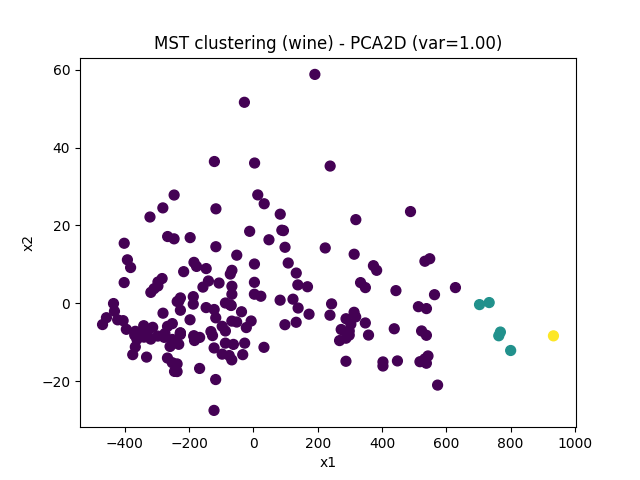
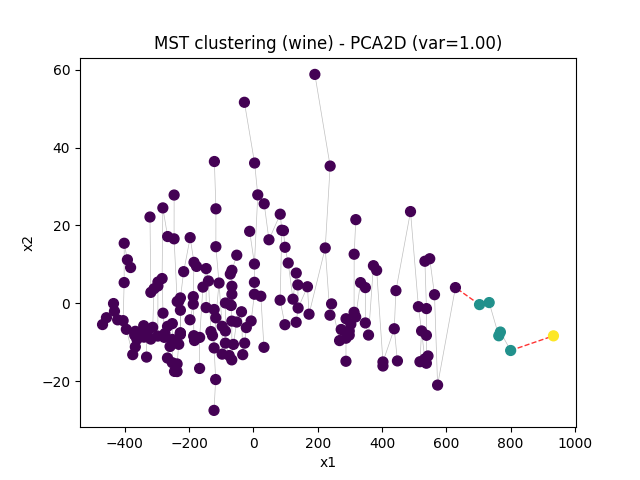
feat: add cost function calculation and details to the plots

diff --git a/mst_clustering.py b/mst_clustering.py
@@ -65,24 +65,42 @@ def mst_cut_clustering(mst_edges: List[Edge], n: int, k: int) -> np.ndarray:
 # -----------------------------
 # Plotting
 # -----------------------------
-def plot_2d_points(X2: np.ndarray, labels: np.ndarray, title: str) -> None:
+def plot_2d_points(X2: np.ndarray, labels: np.ndarray, title: str, mst_edges: List[Edge], cut_edges_set: set) -> None:
     plt.figure()
-    plt.scatter(X2[:, 0], X2[:, 1], c=labels, s=50)
+    
+    # Plot edges
+    for e in mst_edges:
+        p1 = X2[e.u]
+        p2 = X2[e.v]
+        
+        # Check if this edge is cut
+        key = (e.u, e.v) if e.u < e.v else (e.v, e.u)
+        if key in cut_edges_set:
+            plt.plot([p1[0], p2[0]], [p1[1], p2[1]], c='red', linestyle='--', linewidth=1, alpha=0.8)
+        else:
+            plt.plot([p1[0], p2[0]], [p1[1], p2[1]], c='gray', linestyle='-', linewidth=0.5, alpha=0.5)
+
+    plt.scatter(X2[:, 0], X2[:, 1], c=labels, s=50, zorder=3)
     plt.title(title)
     plt.xlabel("x1")
     plt.ylabel("x2")
     plt.savefig(f"figs/{title}.png")
 
 
-def plot_dataset(X: np.ndarray, labels: np.ndarray, dataset_name: str) -> None:
+def plot_dataset(X: np.ndarray, labels: np.ndarray, dataset_name: str, mst_edges: List[Edge], cut_edges: List[Edge]) -> None:
+    # Convert cut_edges to a set of tuples for faster lookup
+    cut_edges_set = set()
+    for e in cut_edges:
+        cut_edges_set.add((e.u, e.v) if e.u < e.v else (e.v, e.u))
+
     if X.shape[1] == 2:
-        plot_2d_points(X, labels, f"MST clustering ({dataset_name})")
+        plot_2d_points(X, labels, f"MST clustering ({dataset_name})", mst_edges, cut_edges_set)
         
     else:
         # PCA to 2D for visualization
         pca = PCA(n_components=2, random_state=42)
         X2 = pca.fit_transform(X)
-        plot_2d_points(X2, labels, f"MST clustering ({dataset_name}) - PCA2D (var={pca.explained_variance_ratio_.sum():.2f})")
+        plot_2d_points(X2, labels, f"MST clustering ({dataset_name}) - PCA2D (var={pca.explained_variance_ratio_.sum():.2f})", mst_edges, cut_edges_set)
 
 
 # -----------------------------
@@ -118,9 +136,59 @@ def main():
     print(f"Cutting {len(cut)} edges (largest weights):")
     for e in cut:
         print(f"  ({e.u}, {e.v}) w={e.w:.6f}")
+    
+    # Calculate objective function: sum of distances of remaining edges
+    cut_set = set(cut)
+    remaining_weight = 0.0
+    for e in mst_edges:
+        if e not in cut_set:
+            # Explicitly look up distance in D as requested
+            dist = D[e.u, e.v]
+            remaining_weight += dist
+            
+            
+    print(f"Total weight of remaining edges (Objective Function): {remaining_weight:.6f}")
+
+    # -----------------------------
+    # Calculate Cluster Centers and Costs
+    # -----------------------------
+    print("\nCluster Centers and Costs:")
+    total_cluster_cost = 0.0
+    
+    # Get unique labels (clusters), usually 1..k
+    unique_labels = sorted(set(labels))
+    
+    for label in unique_labels:
+        # Indices of points in this cluster
+        indices = np.where(labels == label)[0]
+        
+        if len(indices) == 0:
+            continue
+            
+        # 1. Calculate geometric centroid
+        cluster_points = X[indices]
+        centroid = np.mean(cluster_points, axis=0)
+        
+        # 2. Find the center node (closest to centroid)
+        # Calculate distances from each point in cluster to centroid
+        # We can use np.linalg.norm for Euclidean distance
+        dists_to_centroid = np.linalg.norm(cluster_points - centroid, axis=1)
+        best_local_idx = np.argmin(dists_to_centroid)
+        center_node = indices[best_local_idx]
+        
+        # 3. Calculate Cost: Sum of D[center_node, other_node] for all nodes in cluster
+        # Using the pre-calculated distance matrix D
+        cost = 0.0
+        for idx in indices:
+            cost += D[center_node, idx]
+            
+        total_cluster_cost += cost
+        print(f"  Cluster {label}: Center Node {center_node}, Cost {cost:.6f}")
+
+    print(f"Total Cluster Cost (sum of distances to centers): {total_cluster_cost:.6f}")
 
     # Plot
-    plot_dataset(X, labels, args.dataset)
+    plot_dataset(X, labels, args.dataset, mst_edges, cut)
 
 
 if __name__ == "__main__":

diff --git a/parse_results.py b/parse_results.py
@@ -110,24 +110,36 @@ def compact_cluster_ids(assign_median: Dict[int, int]) -> Tuple[Dict[int, int], 
 # -----------------------------
 # 2) Visualization helpers
 # -----------------------------
-def plot_2d_points(X2: np.ndarray, cluster: np.ndarray, title: str):
+def plot_2d_points(X2: np.ndarray, cluster: np.ndarray, title: str, median_indices: List[int] = None):
     """
     Simple 2D scatter colored by cluster labels.
+    Median/center points are highlighted with a different color.
     """
     plt.figure()
-    plt.scatter(X2[:, 0], X2[:, 1], c=cluster, s=50)
+    # Plot all points
+    plt.scatter(X2[:, 0], X2[:, 1], c=cluster, s=50, cmap='viridis')
+    
+    # Highlight center points with a different color
+    if median_indices is not None:
+        # Convert 1-indexed median indices to 0-indexed
+        center_idx = [m - 1 for m in median_indices]
+        plt.scatter(X2[center_idx, 0], X2[center_idx, 1], 
+                    c='red', s=150, marker='*', edgecolors='black', linewidths=1.5,
+                    label='Centers', zorder=5)
+        plt.legend()
+    
     plt.title(title)
     plt.xlabel("x1")
     plt.ylabel("x2")
     plt.savefig(f"figs/{title}.png")
 
-def plot_wine_pca(X: np.ndarray, cluster: np.ndarray, title: str):
+def plot_wine_pca(X: np.ndarray, cluster: np.ndarray, title: str, median_indices: List[int] = None):
     """
     PCA reduce Wine to 2D for visualization.
     """
     pca = PCA(n_components=2, random_state=42)
     X2 = pca.fit_transform(X)
-    plot_2d_points(X2, cluster, title + f" (PCA 2D, var={pca.explained_variance_ratio_.sum():.2f})")
+    plot_2d_points(X2, cluster, title + f" (PCA 2D, var={pca.explained_variance_ratio_.sum():.2f})", median_indices)
 
 
 # -----------------------------
@@ -160,18 +172,28 @@ def main():
             raise ValueError(f"Missing assignment for point i={i}. Did AMPL output include all rows?")
         cluster[i - 1] = point_cluster[i]
 
+    # Get median indices (these are 1-indexed from AMPL)
+    median_indices = list(median_to_cluster.keys())
+    
     # Print quick summary
     print("Medians used (median_j -> cluster_id):")
     for j, cid in sorted(median_to_cluster.items(), key=lambda t: t[1]):
         print(f"  {j} -> {cid}")
+    
+    # Print center coordinates
+    print("\nCenter coordinates:")
+    for j, cid in sorted(median_to_cluster.items(), key=lambda t: t[1]):
+        # Convert 1-indexed to 0-indexed for numpy array access
+        center_coords = X[j - 1]
+        print(f"  Cluster {cid} (point {j}): {center_coords}")
 
     # Visualize
     if args.dataset == "blobs":
         if X.shape[1] != 2:
             raise ValueError("Blobs expected to be 2D (n_features=2).")
-        plot_2d_points(X, cluster, "Blobs clustered by AMPL x[i,j]")
+        plot_2d_points(X, cluster, "Blobs clustered by AMPL x[i,j]", median_indices)
     else:
-        plot_wine_pca(X, cluster, "Wine clustered by AMPL x[i,j]")
+        plot_wine_pca(X, cluster, "Wine clustered by AMPL x[i,j]", median_indices)
 
 if __name__ == "__main__":
     main()
